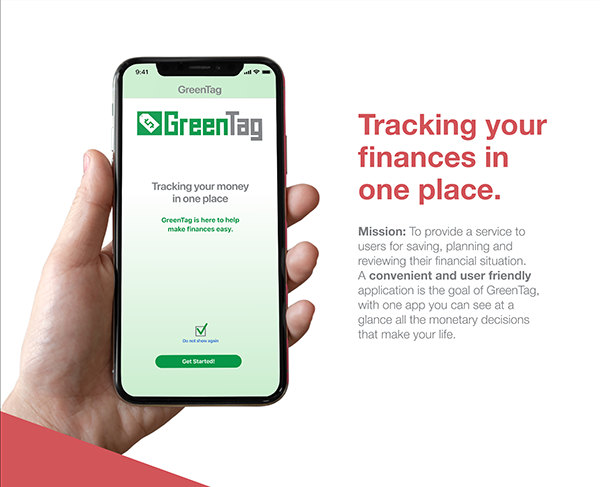
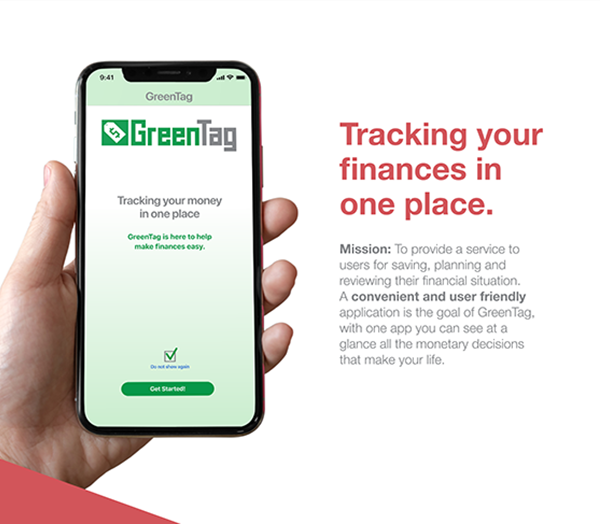
Styling and image changes
Greentag pictures were scaled different than other ones.
changed margins on index page to be consistant.
Changed text on greentag.

diff --git a/about.html b/about.html
@@ -52,7 +52,7 @@
               UI design seemed to fit the bill perfectly.
             </p>
             <p>
-              I currently reside in Santa Paula, California about fifty miles north of Los Angeles. Santa Paula is a small town but I can be in the heart of LA in a little over an hour. I like the
+              I currently reside in Santa Paula, California about fifty miles north of Los Angeles. Santa Paula is a small town, but I can be in the heart of LA in a little over an hour. I like the
               weather and the small-town feel with anything important like the beach or a concert just a small drive away.
             </p>
           </div>

diff --git a/index.html b/index.html
@@ -58,7 +58,7 @@
           <!-- Second column GreenTag -->
           <div class="col-md-6 col-lg-5">
             <h3>GreenTag</h3>
-            <p>A convienient and user friendly money managing app.</p>
+            <p>An app for money managment.</p>
             <p>Made with Figma, Illustrator, and Photoshop.</p>
             <a href="greentag.html" class="button">See Case Study</a>
           </div>

diff --git a/css/style.css b/css/style.css
@@ -315,6 +315,7 @@ Medium devices (640px and larger)
 
   #hero {
     padding: 10px 0;
+    margin-bottom: 20px;
   }
 
   #hero span {
@@ -323,6 +324,15 @@ Medium devices (640px and larger)
 
   #hero .container h1 {
     padding-bottom: 0;
+  }
+
+  #work .container h2 {
+    margin-top: 10px;
+    margin-bottom: 40px;
+  }
+
+  #work h3 {
+    margin-top: 0;
   }
 
   .col-md-6 {
